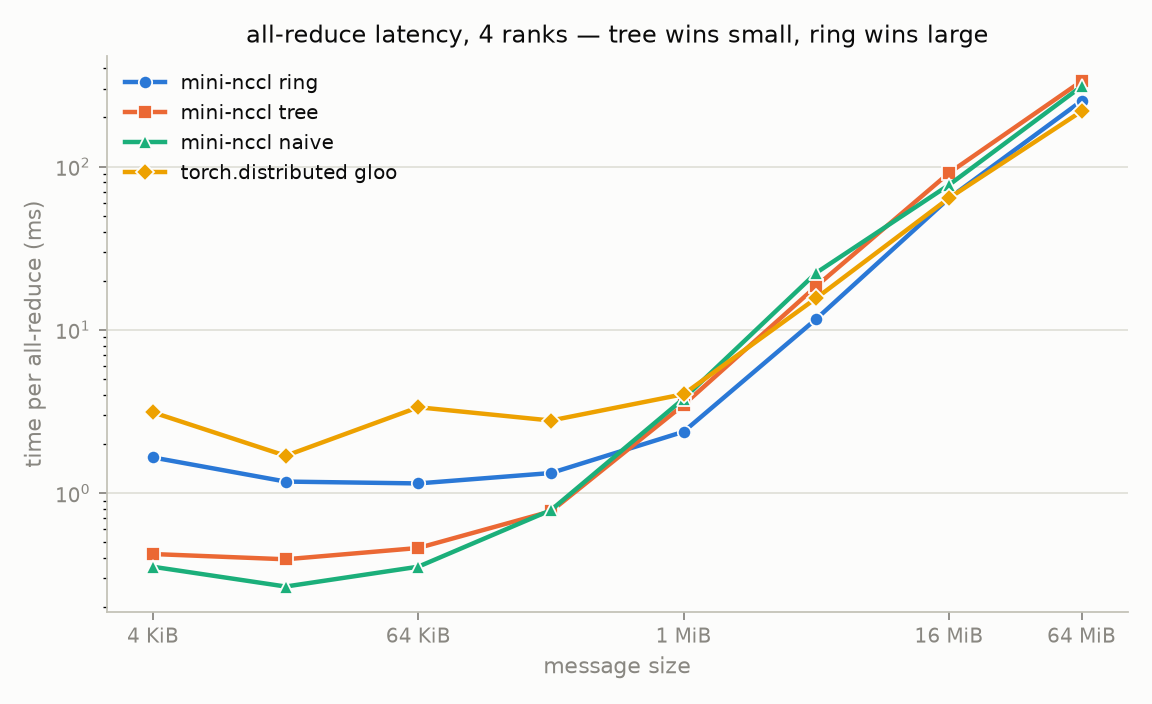
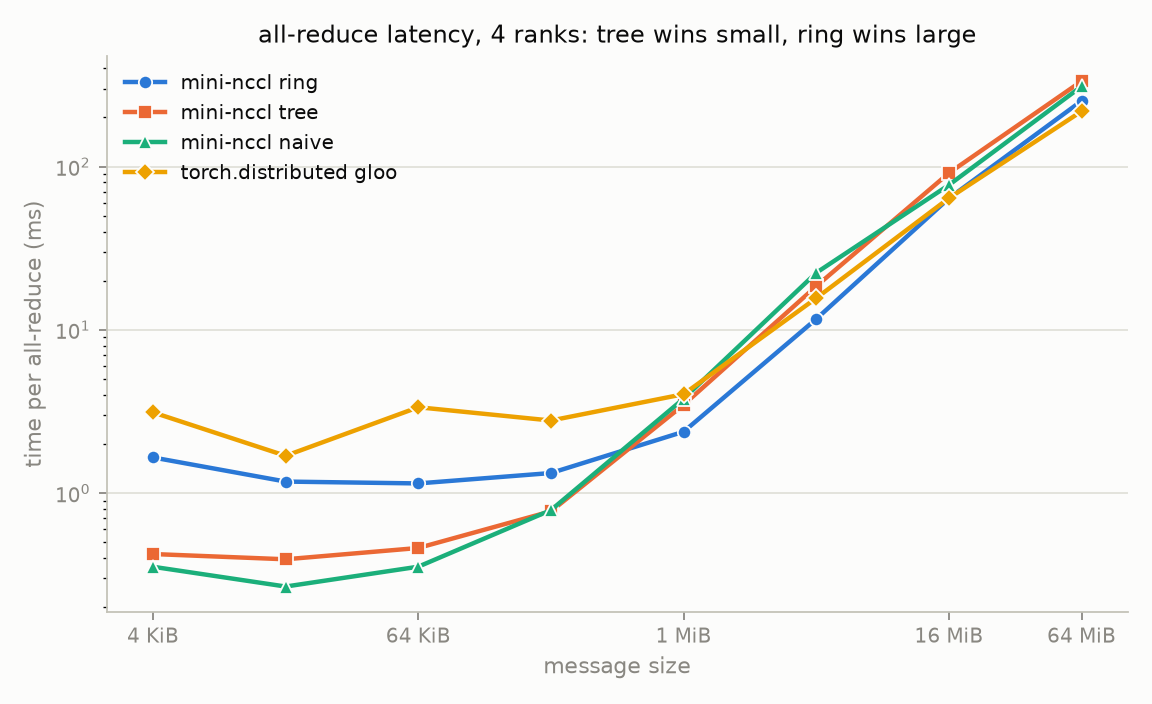
Tighten punctuation across docs and docstrings

Changed region(s): [[0.2188, 0.0312, 0.875, 0.0625]]

diff --git a/mini_nccl/collectives.py b/mini_nccl/collectives.py
@@ -2,14 +2,14 @@
 
 Three all-reduce strategies, mirroring the trade-offs inside NCCL:
 
-- ``ring``   — bandwidth-optimal. Reduce-scatter then all-gather around a
+- ``ring``: bandwidth-optimal. Reduce-scatter then all-gather around a
   ring; each rank sends ``2(W-1)/W * n`` bytes total regardless of world
   size, but latency grows linearly with ``W`` (2(W-1) serialized steps).
-- ``tree``   — latency-optimal. Binomial-tree reduce to rank 0 followed by
+- ``tree``: latency-optimal. Binomial-tree reduce to rank 0 followed by
   a binomial-tree broadcast: ``2*ceil(log2 W)`` steps, but interior ranks
   forward the full payload, so it moves more bytes than ring on large
   tensors.
-- ``naive``  — the parameter-server baseline: every rank sends to rank 0,
+- ``naive``: the parameter-server baseline; every rank sends to rank 0,
   which reduces and sends the result back. Rank 0 handles ``O(W * n)``
   bytes; included so benchmarks show *why* the other two exist.
 
@@ -24,7 +24,7 @@ import torch
 from .process_group import ProcessGroup
 
 # Crossover point between latency-bound and bandwidth-bound messages.
-# Tune this from benchmarks/bench_allreduce.py results on your own fabric —
+# Tune this from benchmarks/bench_allreduce.py results on your own fabric;
 # on loopback TCP it sits around a few hundred KiB.
 RING_THRESHOLD_BYTES = 256 * 1024
 
@@ -82,7 +82,7 @@ def _ring_all_reduce(pg: ProcessGroup, tensor: torch.Tensor, op: str) -> None:
     right, left = (r + 1) % W, (r - 1) % W
     reduce_op = _OPS[op]
 
-    # Phase 1 — reduce-scatter: after W-1 steps, this rank holds the fully
+    # Phase 1 (reduce-scatter): after W-1 steps, this rank holds the fully
     # reduced block (r + 1) % W. Each step forwards the block we just
     # accumulated while receiving the next partial from the left.
     for step in range(W - 1):
@@ -91,7 +91,7 @@ def _ring_all_reduce(pg: ProcessGroup, tensor: torch.Tensor, op: str) -> None:
         pg.send_recv(blocks[send_idx], right, tmp, left)
         reduce_op(blocks[recv_idx], tmp)
 
-    # Phase 2 — all-gather: circulate the reduced blocks around the ring.
+    # Phase 2 (all-gather): circulate the reduced blocks around the ring.
     for step in range(W - 1):
         send_idx = (r + 1 - step) % W
         recv_idx = (r - step) % W

diff --git a/mini_nccl/ddp.py b/mini_nccl/ddp.py
@@ -8,13 +8,13 @@ reimplemented from scratch:
   backward) into flat buckets of ~``bucket_cap_mb``. One all-reduce per
   bucket amortizes per-message latency across many small tensors.
 - **Gradient views.** Each ``param.grad`` is a view into its bucket's flat
-  buffer, so autograd accumulates directly into the communication buffer —
+  buffer, so autograd accumulates directly into the communication buffer:
   no flatten/unflatten copies on the hot path.
 - **Compute/communication overlap.** A post-accumulate-grad hook marks a
   bucket ready; a dedicated communication thread reduces buckets *while
   backward is still computing* earlier layers' gradients. Buckets are
   always reduced in fixed index order so every rank issues the identical
-  collective sequence — the same invariant NCCL communicators require.
+  collective sequence, the same invariant NCCL communicators require.
 
 Usage::
 

diff --git a/mini_nccl/process_group.py b/mini_nccl/process_group.py
@@ -2,7 +2,7 @@
 
 A ``ProcessGroup`` is intentionally not thread-safe: collectives must be
 issued in the same order on every rank (as with NCCL communicators), so
-callers — including the DDP reducer — serialize onto a single thread.
+callers (including the DDP reducer) serialize onto a single thread.
 The one internal thread is a send worker, which lets ``send_recv`` push to
 one neighbor while the calling thread blocks on the receive from the other;
 that full-duplex step is what makes ring algorithms run at line rate.

diff --git a/mini_nccl/__init__.py b/mini_nccl/__init__.py
@@ -1,8 +1,8 @@
 """mini-nccl: collective communication from first principles.
 
 A small, readable reimplementation of the algorithms inside libraries like
-NCCL — ring and binomial-tree all-reduce, reduce-scatter, all-gather,
-broadcast — over plain TCP sockets, plus a bucketed-overlap DDP wrapper
+NCCL (ring and binomial-tree all-reduce, reduce-scatter, all-gather,
+broadcast) over plain TCP sockets, plus a bucketed-overlap DDP wrapper
 built on nothing but these primitives.
 
 Typical usage inside a worker process::

diff --git a/benchmarks/bench_allreduce.py b/benchmarks/bench_allreduce.py
@@ -2,8 +2,8 @@
 
     python benchmarks/bench_allreduce.py --world-sizes 2,4 --gloo
 
-Measures mini-nccl's ring, tree, and naive algorithms — and optionally
-torch.distributed's gloo backend on identical processes — and writes a CSV
+Measures mini-nccl's ring, tree, and naive algorithms (and optionally
+torch.distributed's gloo backend on identical processes) and writes a CSV
 of algorithm bandwidth (bytes moved / time) and NCCL-convention bus
 bandwidth (algbw * 2(W-1)/W for all-reduce).
 

diff --git a/benchmarks/bench_ddp_overlap.py b/benchmarks/bench_ddp_overlap.py
@@ -2,8 +2,8 @@
 
     python benchmarks/bench_ddp_overlap.py --world-size 4
 
-Trains the example GPT twice — once with the bucketed-overlap reducer,
-once reducing all buckets serially after backward — and reports mean step
+Trains the example GPT twice, once with the bucketed-overlap reducer and
+once reducing all buckets serially after backward, and reports mean step
 time for each. The gap is the communication cost hidden behind backward.
 """
 

diff --git a/tests/test_collectives.py b/tests/test_collectives.py
@@ -3,7 +3,7 @@ recomputed references.
 
 Each rank derives its input from ``torch.manual_seed(rank)``, so every rank
 can independently reconstruct all inputs and compute the exact expected
-result — no golden files, no cross-process oracles.
+result: no golden files, no cross-process oracles.
 
 To keep process-spawn overhead sane, one worker runs the whole battery of
 (algorithm x op x size x dtype) cases inside a single process group, and the

diff --git a/mini_nccl/transport.py b/mini_nccl/transport.py
@@ -9,7 +9,7 @@ Design notes:
   every exchange inside a collective already agree on element count and
   dtype (the same contract NCCL uses), so headers would be pure overhead.
 - Receives land directly in the destination tensor's storage via
-  ``socket.recv_into`` on a ``memoryview`` — the hot path does no
+  ``socket.recv_into`` on a ``memoryview``; the hot path does no
   Python-side buffer copies.
 """
 

diff --git a/benchmarks/plot_results.py b/benchmarks/plot_results.py
@@ -120,7 +120,7 @@ def plot_latency(data) -> None:
     ax.set_yscale("log")
     ax.set_ylabel("time per all-reduce (ms)")
     ax.set_title(
-        f"all-reduce latency, {world} ranks — tree wins small, ring wins large",
+        f"all-reduce latency, {world} ranks: tree wins small, ring wins large",
         fontsize=11,
     )
     ax.legend(frameon=False, fontsize=9, labelcolor=INK, loc="upper left")

diff --git a/examples/train_gpt.py b/examples/train_gpt.py
@@ -1,4 +1,4 @@
-"""Train a character-level GPT data-parallel — every gradient byte moves
+"""Train a character-level GPT data-parallel. Every gradient byte moves
 through mini-nccl's own ring all-reduce, not torch.distributed.
 
     python examples/train_gpt.py --world-size 4 --steps 200 --sample

diff --git a/README.md b/README.md
@@ -3,8 +3,8 @@
 [![ci](https://github.com/MrMiniMIze/mini-nccl/actions/workflows/ci.yml/badge.svg)](https://github.com/MrMiniMIze/mini-nccl/actions/workflows/ci.yml)
 
 **Collective communication from first principles.** A small, readable
-reimplementation of the algorithms inside libraries like NCCL — ring and
-binomial-tree all-reduce, reduce-scatter, all-gather, broadcast — built on
+reimplementation of the algorithms inside libraries like NCCL (ring and
+binomial-tree all-reduce, reduce-scatter, all-gather, broadcast), built on
 nothing but TCP sockets and PyTorch tensors, plus a bucketed-overlap
 `DistributedDataParallel` built on top of it, and a character-level GPT
 whose every gradient byte moves through this library rather than
@@ -21,10 +21,10 @@ measured enough to trust.
 | Layer | File | What it does |
 |---|---|---|
 | Transport | `mini_nccl/transport.py` | Full-mesh TCP rendezvous, zero-copy receives (`socket.recv_into` straight into tensor storage) |
-| Process group | `mini_nccl/process_group.py` | `send` / `recv` / full-duplex `send_recv` — the three primitives everything else is built from |
+| Process group | `mini_nccl/process_group.py` | `send` / `recv` / full-duplex `send_recv`: the three primitives everything else is built from |
 | Collectives | `mini_nccl/collectives.py` | `all_reduce` (ring / binomial tree / naive), `reduce_scatter`, `all_gather`, `broadcast`, `barrier` |
 | DDP | `mini_nccl/ddp.py` | Gradient bucketing, grads-as-bucket-views, communication/compute overlap on a dedicated reducer thread |
-| Launcher | `mini_nccl/launcher.py` | `mn.run(fn, world_size)` — spawn, rendezvous, collect results, propagate worker tracebacks |
+| Launcher | `mini_nccl/launcher.py` | `mn.run(fn, world_size)`: spawn, rendezvous, collect results, propagate worker tracebacks |
 | Example | `examples/train_gpt.py` | Char-level GPT trained data-parallel on tiny shakespeare |
 | Benchmarks | `benchmarks/` | nccl-tests-style sweep vs `torch.distributed` gloo, overlap timing, chart generation |
 
@@ -65,7 +65,7 @@ while receiving (and reducing into) the next block from its left neighbor.
 After that phase, every rank holds one *fully reduced* block. `W-1`
 **all-gather** steps then circulate the finished blocks around the ring.
 
-Every rank sends `2 (W-1)/W · n` bytes total — asymptotically independent
+Every rank sends `2 (W-1)/W · n` bytes total, asymptotically independent
 of world size. That is the whole magic: add more workers and per-rank
 traffic stays flat. The cost is latency: `2(W-1)` serialized steps.
 
@@ -78,13 +78,13 @@ this is real full-duplex, not time-slicing).
 
 Latency-optimal: reduce up a binomial tree to rank 0 in `⌈log₂ W⌉` steps,
 broadcast back down in `⌈log₂ W⌉` more. Interior ranks forward the full
-payload, so total bytes moved grow with `log W` — worse than ring for large
+payload, so total bytes moved grow with `log W`: worse than ring for large
 tensors, unbeatable for small ones where per-message latency dominates.
 
 ### Algorithm selection
 
 `algorithm="auto"` picks tree at or below `RING_THRESHOLD_BYTES` (256 KiB)
-and ring above it — the same latency-vs-bandwidth decision NCCL's tuner
+and ring above it, the same latency-vs-bandwidth decision NCCL's tuner
 makes. The measured crossover on loopback TCP sits right in that window:
 
 ![all-reduce latency](docs/img/allreduce_latency.png)
@@ -98,7 +98,7 @@ your own fabric from the benchmark CSV.
 tensor to rank 0, which reduces and sends results back. Rank 0 moves
 `O(W · n)` bytes. It's included because the benchmark charts make the point
 better than prose: it looks fine at small scale and falls behind as world
-size and message size grow — exactly why ring algorithms exist.
+size and message size grow, which is exactly why ring algorithms exist.
 
 ### DDP: bucketing, gradient views, overlap
 
@@ -110,28 +110,28 @@ PyTorch's DDP:
   ~`bucket_cap_mb` flat buffers. One all-reduce per bucket instead of one
   per tensor amortizes latency.
 - **Gradient views.** Each `param.grad` is a view into its bucket's flat
-  buffer, so autograd accumulates directly into the communication buffer —
-  zero flatten/unflatten copies.
+  buffer, so autograd accumulates directly into the communication buffer,
+  with zero flatten/unflatten copies.
 - **Overlap.** A post-accumulate-grad hook marks buckets ready; a dedicated
   reducer thread all-reduces each bucket as it completes, while backward is
   still computing earlier layers' gradients.
 - **Determinism invariant.** The reducer processes buckets in fixed index
   order regardless of readiness order, so every rank issues the identical
-  collective sequence — the same invariant NCCL communicators require to
+  collective sequence, the same invariant NCCL communicators require to
   avoid cross-rank deadlock.
 
 Correctness is enforced by the strictest test a DDP can face: training on
 `W` processes (each with `1/W` of the batch) must produce the same
 parameters as single-process full-batch training, step for step, to
-floating-point tolerance — including with 1 KiB buckets and overlap enabled
+floating-point tolerance, including with 1 KiB buckets and overlap enabled
 (`tests/test_ddp.py`).
 
-### What overlap buys — an honest number
+### What overlap buys: an honest number
 
 On this benchmark's CPU-loopback setup, overlap hides only ~2% of step time
 (`benchmarks/bench_ddp_overlap.py`). That is the *correct* result for the
 environment, and worth understanding: overlap pays when communication uses
-a resource distinct from compute — a NIC with DMA, a GPU copy engine, a
+a resource distinct from compute: a NIC with DMA, a GPU copy engine, a
 dedicated fabric. On loopback, "network transfer" is memcpy executed by the
 same CPU cores that backward needs, so there is nothing independent to
 overlap with. The mechanism is what matters; the payoff appears the moment
@@ -141,7 +141,7 @@ the transport stops sharing silicon with the model.
 
 `examples/train_gpt.py` trains a ~1M-parameter character-level GPT on tiny
 shakespeare, data-parallel, with gradients averaged by this library's own
-ring all-reduce — `torch.distributed` is never imported. Two ranks on a
+ring all-reduce; `torch.distributed` is never imported. Two ranks on a
 laptop CPU:
 
 ```
@@ -174,7 +174,7 @@ bandwidth for all-reduce is `algbw · 2(W-1)/W`. Run on loopback TCP,
 
 mini-nccl's ring beats `torch.distributed`'s gloo backend across the small
 and mid range and ties it at 16 MiB; gloo takes the largest size (its
-chunk pipelining starts paying — see roadmap). Loopback numbers compress
+chunk pipelining starts paying; see roadmap). Loopback numbers compress
 real-network differences: on a physical fabric, naive's central bottleneck
 and ring's bandwidth optimality both separate much harder.
 
@@ -186,8 +186,8 @@ pytest -q     # 12 tests, ~50 s (process spawn dominates)
 
 - Every collective × every algorithm × sum/max/min/prod × float32/int64 ×
   sizes chosen to hit edge cases (1 element, fewer elements than ranks,
-  non-divisible sizes, multi-buffer messages), at world sizes 2, 3, and 4 —
-  expected values recomputed independently on every rank from seeds.
+  non-divisible sizes, multi-buffer messages), at world sizes 2, 3, and 4,
+  with expected values recomputed independently on every rank from seeds.
 - DDP parity vs single-process training (overlap on/off, multi-bucket).
 - Transport: full-duplex ring rotation deadlock test, zero-copy invariants,
   worker exception propagation.
@@ -201,16 +201,16 @@ pytest -q     # 12 tests, ~50 s (process spawn dominates)
   identical order on every rank; callers serialize. This is NCCL's contract
   too, and the DDP reducer thread is built around it.
 - **No unused-parameter detection, no gradient accumulation across
-  backwards** — same defaults as `torch.nn.parallel.DistributedDataParallel`,
+  backwards**, the same defaults as `torch.nn.parallel.DistributedDataParallel`,
   kept out to keep the reducer readable.
 - Equal tensor shapes are required on all ranks (NCCL's contract as well).
 
 ## Roadmap
 
 - Chunk pipelining within ring steps (split blocks into slices so a rank
-  starts forwarding a slice while the rest is still arriving) — closes the
+  starts forwarding a slice while the rest is still arriving); closes the
   64 MiB gap to gloo.
-- Recursive halving-doubling all-reduce — better latency×bandwidth product
+- Recursive halving-doubling all-reduce, for a better latency×bandwidth product
   in the mid range.
 - Multi-node support: hostfile-based rendezvous (the address book is
   already a `(host, port)` list; only launch tooling is missing).
